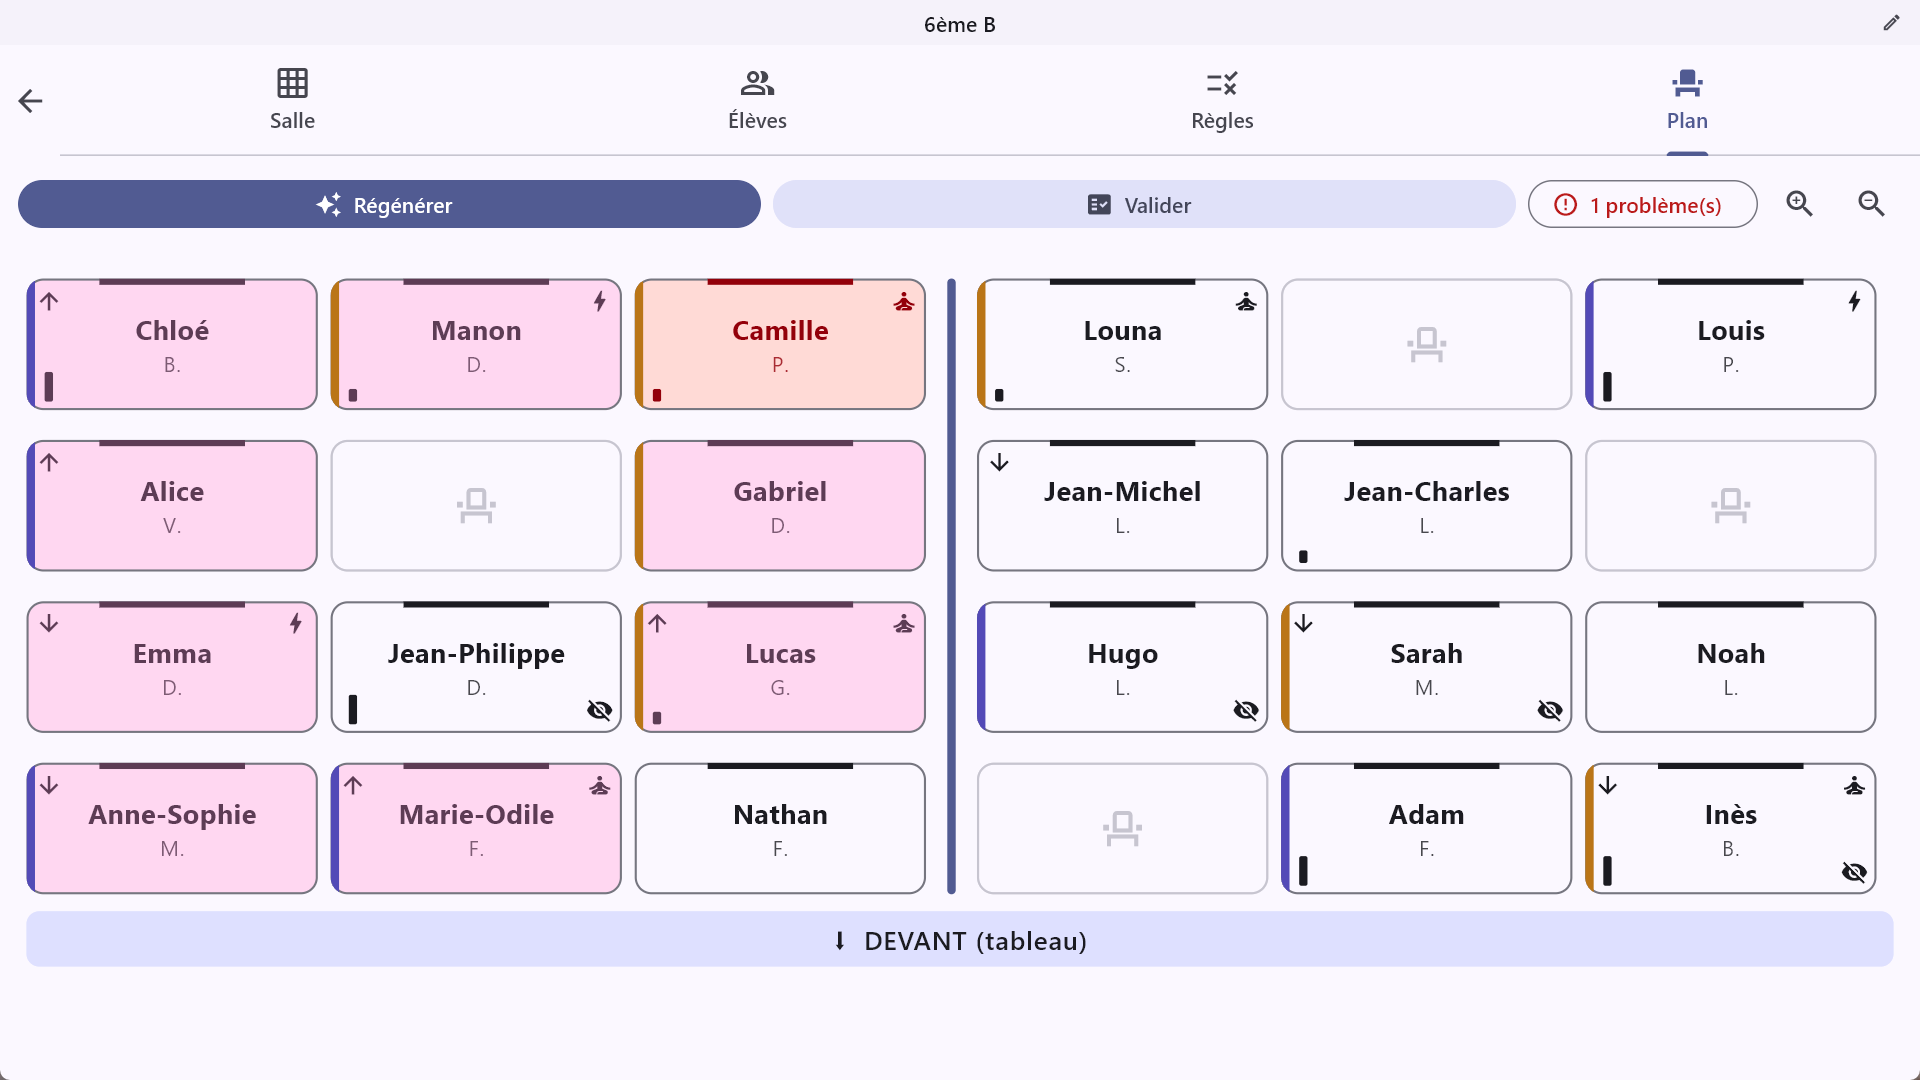
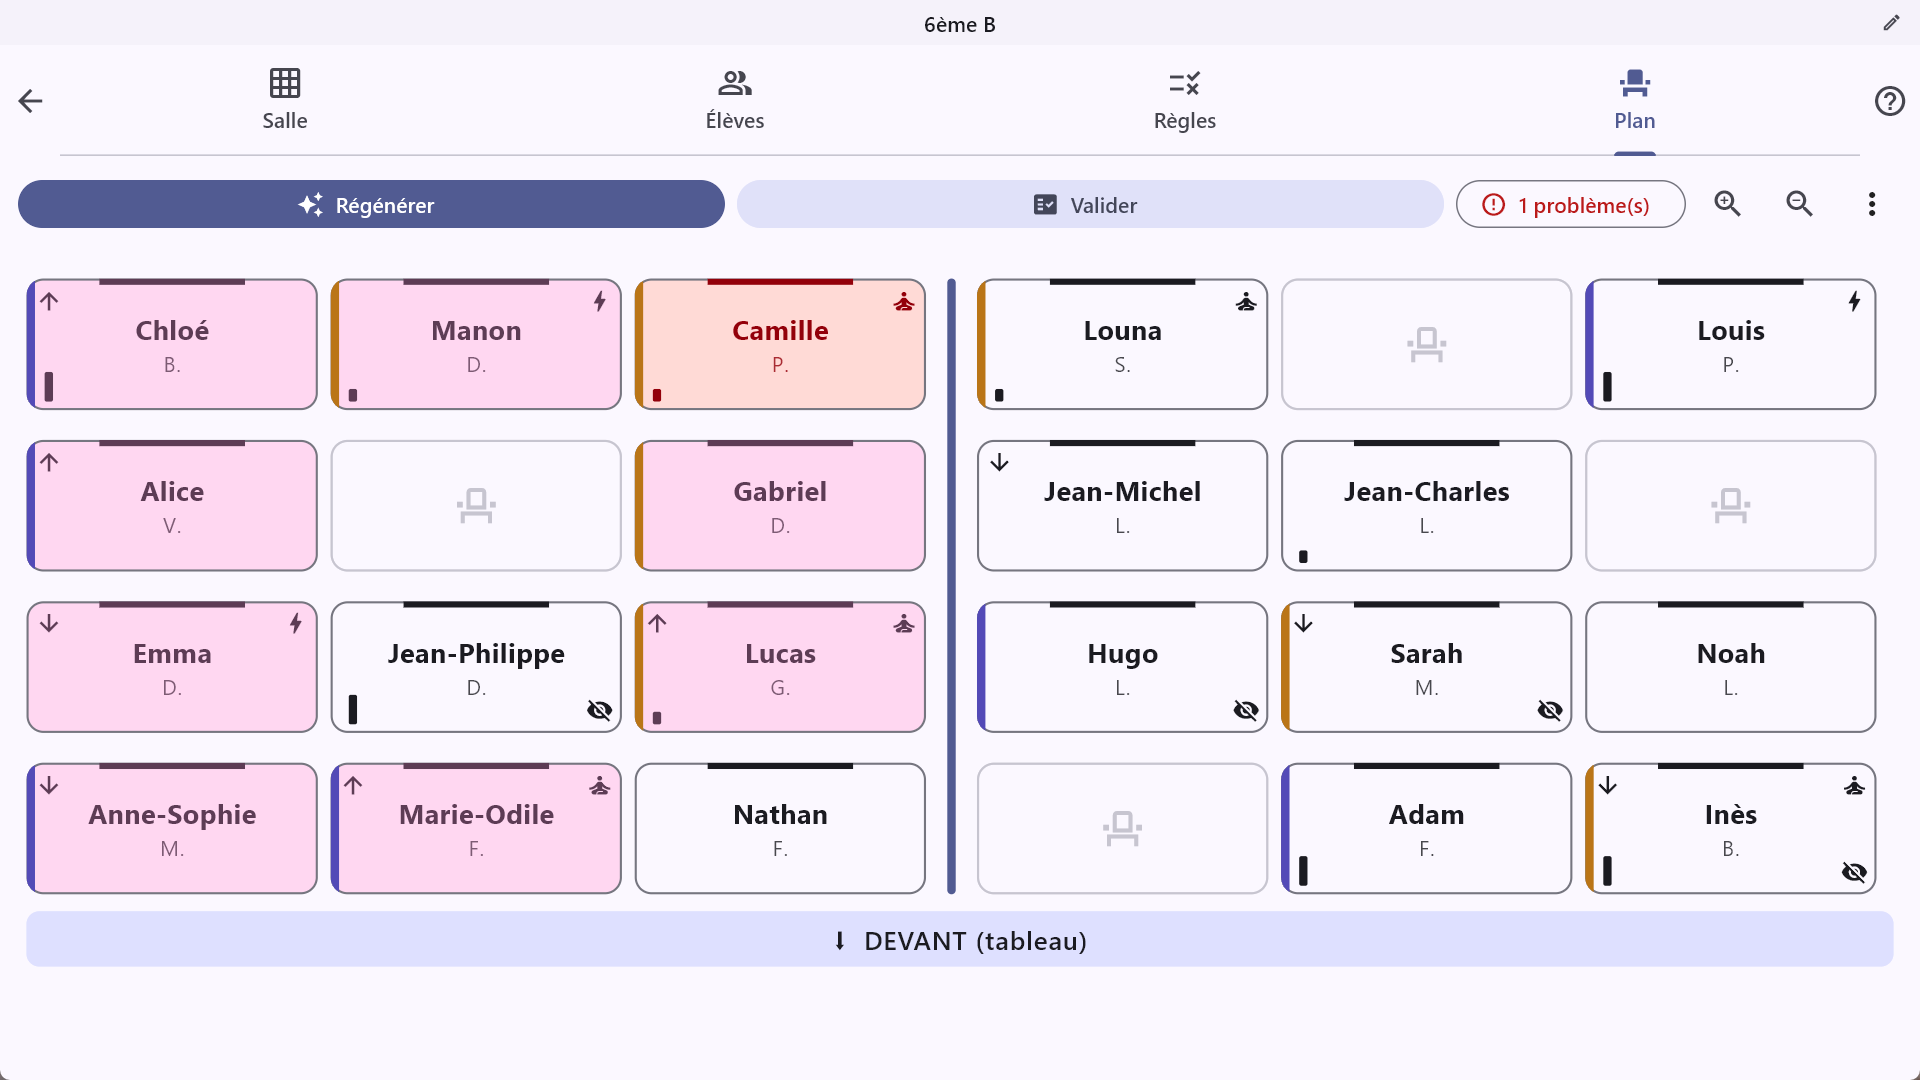
Prépare la version 1.13.0
- pubspec 1.13.0+120 et test de release.
- Notes de version 120 (fr-FR et en-US) et descriptions Play mises à jour :
  tutoriel, FAQ, archivage, export PDF et fichier.
- Captures Play refaites en français et en anglais (accueil et onglet Plan
  mis à jour) ; patch des hooks de capture regénéré.

diff --git a/test/release_workflow_test.dart b/test/release_workflow_test.dart
@@ -21,7 +21,7 @@ void main() {
   });
 
   test('la version migre au-dessus du dernier versionCode généré', () {
-    expect(version.group(1), '1.12.0');
+    expect(version.group(1), '1.13.0');
     expect(int.parse(version.group(2)!), greaterThan(118));
   });
 

diff --git a/store/play/README.md b/store/play/README.md
@@ -42,6 +42,12 @@ pour montrer les boutons de zoom du Plan (issue #24) et fournir un jeu
 élèves fictifs). Le jeu français reste dans `metadata/fr-FR/screenshots/`. Procédure et
 scripts : [`tools/README.md`](tools/README.md).
 
+**Refaites pour la 1.13.0** : les 8, dans les deux langues, pour montrer les
+nouveautés de l'accueil (import, historique, export, tutoriel, aide) et de
+l'onglet Plan (menu ⋮, aide). Le hook de capture marque en plus le tutoriel
+comme déjà vu, sans quoi l'invite de bienvenue s'affiche sur l'accueil. Le
+patch `tools/screenshot-hooks.patch` est regénéré pour ce code.
+
 ### Contraintes de dimensions (⚠ vérifié le 2026-08-25)
 
 Les captures servent **deux** slots de la Play Console, téléphone et
